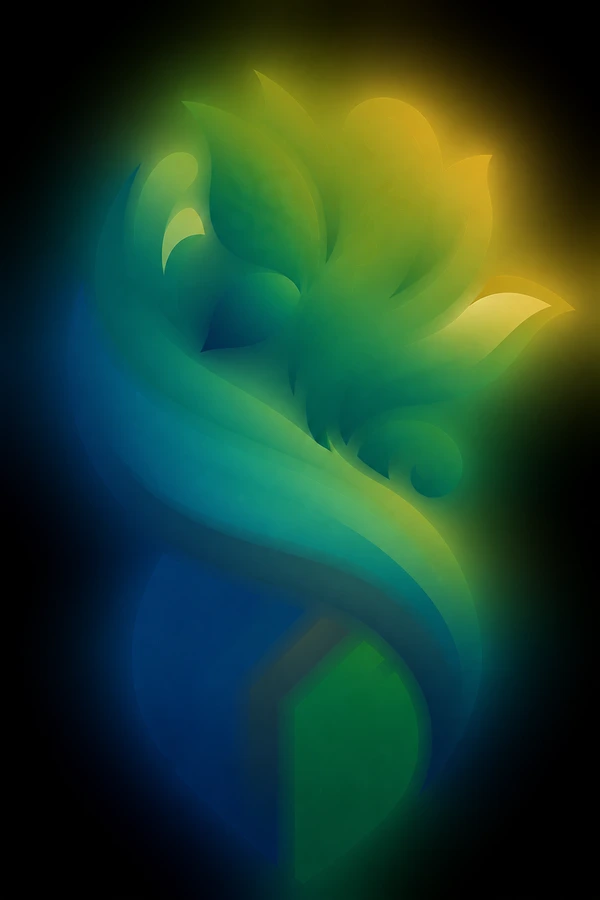
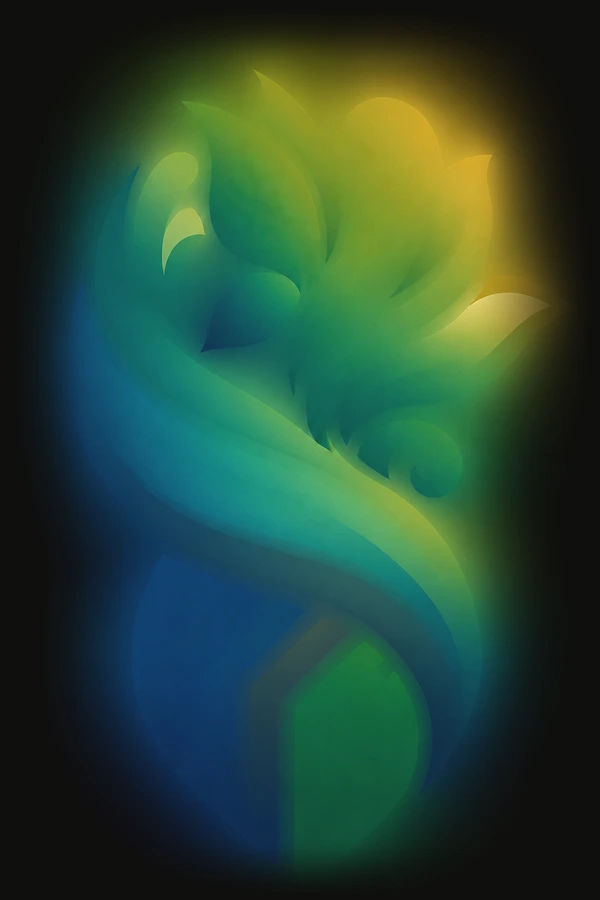
Auto-backup 2026-10-26 20:42 - img/icono.webp, index.html

Changed region(s): [[0.81, 0.1867, 1.0, 0.4356], [0.42, 0.9644, 0.6, 1.0], [0.0, 0.3422, 0.09, 0.4356]]

diff --git a/index.html b/index.html
@@ -21,9 +21,9 @@ nav{display:flex;flex-wrap:wrap;gap:16px;align-items:center;justify-content:spac
 .logo{font-size:15px;letter-spacing:4px;text-transform:uppercase;color:var(--gold)}
 nav .links{display:flex;gap:28px;font-size:14px}
 h1,h2{font-family:Fraunces,serif;font-weight:500;margin:0}
-.hero{display:flex;flex-direction:column;align-items:center;text-align:center;gap:26px;padding:72px 0 48px}
-.brand{display:flex;align-items:center;gap:12px}.brand img{display:block;height:48px;width:auto;mix-blend-mode:screen}
-.emblem{display:block;height:300px;width:auto;mix-blend-mode:screen;-webkit-mask-image:linear-gradient(to right,transparent,#000 8%,#000 92%,transparent),linear-gradient(to bottom,transparent,#000 6%,#000 94%,transparent);-webkit-mask-composite:source-in;mask-image:linear-gradient(to right,transparent,#000 8%,#000 92%,transparent),linear-gradient(to bottom,transparent,#000 6%,#000 94%,transparent);mask-composite:intersect}
+.hero{display:flex;flex-direction:column;align-items:center;text-align:center;gap:26px;padding:32px 0 48px}
+.brand{display:flex;align-items:center;gap:12px}.brand img{display:block;height:48px;width:auto}
+.emblem{display:block;height:380px;width:auto}
 .hero h1{font-size:clamp(38px,7vw,68px);line-height:1.06;max-width:860px;letter-spacing:-.01em}
 .hero h1 span{color:var(--gold)}
 .hero p{margin:0;font-size:18px;line-height:1.65;color:var(--muted);max-width:600px}
@@ -81,7 +81,7 @@ footer{border-top:1px solid var(--border);padding:24px 0;display:flex;flex-wrap:
 <div class="wrap">
 <nav><span class="brand"><img src="img/icono.webp" width="32" height="48" alt=""><span class="logo">Chrysalis</span></span><div class="links"><a href="#funciones">Funciones</a><a href="#instalar">Instalación</a><a href="#versiones">Versiones</a></div></nav>
 <header class="hero">
-<img class="emblem" src="img/icono.webp" width="200" height="300" alt="Icono de Chrysalis">
+<img class="emblem" src="img/icono.webp" width="253" height="380" alt="Icono de Chrysalis">
 <h1>Las ideas no viven aisladas. <span>Chrysalis las conecta.</span></h1>
 <p>Un segundo cerebro que vive en tu computador. Notas, grafo, mapas mentales y biblioteca, todo enlazado.</p>
 <div class="cta">
